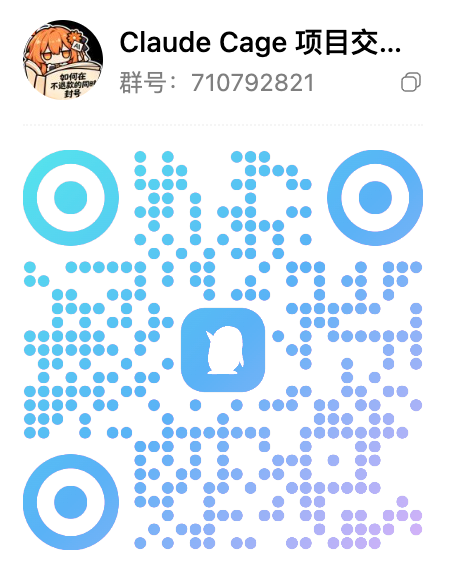
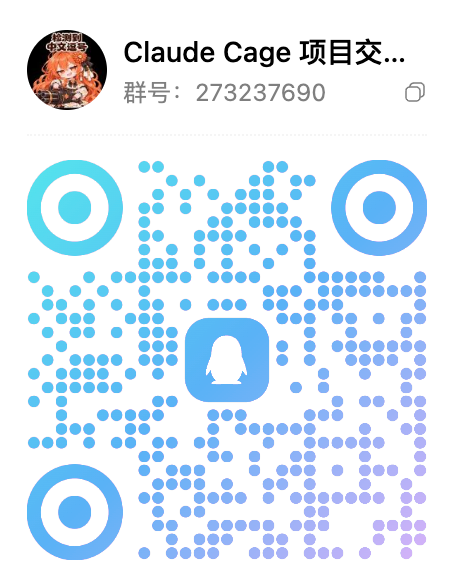
更新社区 QQ 群信息

diff --git a/www/src/i18n/cage.ts b/www/src/i18n/cage.ts
@@ -65,7 +65,7 @@ function readCopy(language: typeof languages[number]) {
     downloadTitle: installation.title, downloadText: installParagraphs[1],
     downloadNote: installParagraphs[0], updateNote: installParagraphs.at(-1) || '',
     communityTitle: contribution.title, communityText: paragraphs(contribution.body.replace(/<p\b[^>]*>[\s\S]*?<\/p>/g, '')).at(-1) || '',
-    group: isChinese ? 'QQ 群 · 710792821' : 'QQ group · 710792821',
+    group: isChinese ? 'QQ 群 · 273237690' : 'QQ group · 273237690',
     wechat: isChinese ? '微信' : 'WeChat', docsTitle: contribution.title, docs,
     licenseTitle: license.title, licenseText: paragraphs(license.body).slice(0,-1).join('\n\n'),
     independent: paragraphs(license.body).at(-1) || '',

diff --git a/README.my.md b/README.my.md
@@ -118,8 +118,8 @@ macOS နှင့် လက်မှတ်ထိုးထားသော Window
 ပရောဂျက်က အရှိန်အဟုန်နဲ့ တိုးတက်နေတယ်။ တုံ့ပြန်ချက်မျှဝေရန် ကွန်မြူနတီအဖွဲ့သို့ ဝင်ရောက်ပါ။ ရပ်ရွာထိန်းသိမ်းသူ များကို ကြိုဆိုပါတယ်။
 
 <p align="center">
-  <a href="assets/community-qq.png"><img src="assets/community-qq.png" alt="QQ group · 710792821" width="240" /></a>
-  <br />QQ group · 710792821
+  <a href="assets/community-qq.png"><img src="assets/community-qq.png" alt="QQ group · 273237690" width="240" /></a>
+  <br />QQ group · 273237690
 </p>
 
 <p align="center">

diff --git a/README.ru.md b/README.ru.md
@@ -118,8 +118,8 @@ macOS и подписанные версии Windows обновляются че
 Проект быстро развивается. Присоединяйтесь к группе сообщества, чтобы поделиться отзывами; сопровождающие сообщества приветствуются.
 
 <p align="center">
-  <a href="assets/community-qq.png"><img src="assets/community-qq.png" alt="QQ group · 710792821" width="240" /></a>
-  <br />QQ group · 710792821
+  <a href="assets/community-qq.png"><img src="assets/community-qq.png" alt="QQ group · 273237690" width="240" /></a>
+  <br />QQ group · 273237690
 </p>
 
 <p align="center">

diff --git a/README.be.md b/README.be.md
@@ -118,8 +118,8 @@ macOS і падпісаныя версіі Windows абнаўляюцца пра
 Праект імкліва развіваецца. Далучайцеся да групы супольнасці, каб падзяліцца водгукамі; вітаюцца супрацоўнікі супольнасці.
 
 <p align="center">
-  <a href="assets/community-qq.png"><img src="assets/community-qq.png" alt="QQ group · 710792821" width="240" /></a>
-  <br />QQ group · 710792821
+  <a href="assets/community-qq.png"><img src="assets/community-qq.png" alt="QQ group · 273237690" width="240" /></a>
+  <br />QQ group · 273237690
 </p>
 
 <p align="center">

diff --git a/README.fa.md b/README.fa.md
@@ -118,8 +118,8 @@ macOS و نسخههای امضاشدهٔ Windows از پراکسی انتخا
 این پروژه به سرعت در حال پیشرفت است. برای به اشتراک گذاشتن بازخورد به گروه جامعه بپیوندید. از نگهبانان جامعه استقبال می شود.
 
 <p align="center">
-  <a href="assets/community-qq.png"><img src="assets/community-qq.png" alt="QQ group · 710792821" width="240" /></a>
-  <br />QQ group · 710792821
+  <a href="assets/community-qq.png"><img src="assets/community-qq.png" alt="QQ group · 273237690" width="240" /></a>
+  <br />QQ group · 273237690
 </p>
 
 <p align="center">

diff --git a/README.prs.md b/README.prs.md
@@ -118,8 +118,8 @@ macOS و نسخههای امضاشدهٔ Windows از پراکسی انتخا
 این پروژه به سرعت در حال پیشرفت است. برای به اشتراک گذاشتن بازخورد به گروه جامعه بپیوندید. از نگهبانان جامعه استقبال می شود.
 
 <p align="center">
-  <a href="assets/community-qq.png"><img src="assets/community-qq.png" alt="QQ group · 710792821" width="240" /></a>
-  <br />QQ group · 710792821
+  <a href="assets/community-qq.png"><img src="assets/community-qq.png" alt="QQ group · 273237690" width="240" /></a>
+  <br />QQ group · 273237690
 </p>
 
 <p align="center">

diff --git a/README.ps.md b/README.ps.md
@@ -118,8 +118,8 @@ macOS او لاسلیک شوې Windows نسخې د ټاکلي پراکسي له 
 پروژه په چټکۍ سره وده کوي. د نظر شریکولو لپاره د ټولنې ګروپ کې ګډون وکړئ؛ د ټولنې ساتونکي ښه راغلاست.
 
 <p align="center">
-  <a href="assets/community-qq.png"><img src="assets/community-qq.png" alt="QQ group · 710792821" width="240" /></a>
-  <br />QQ group · 710792821
+  <a href="assets/community-qq.png"><img src="assets/community-qq.png" alt="QQ group · 273237690" width="240" /></a>
+  <br />QQ group · 273237690
 </p>
 
 <p align="center">

diff --git a/README.es.md b/README.es.md
@@ -118,8 +118,8 @@ Para consultar el índice completo, consulte [Índice de documentación](docs/RE
 El proyecto está evolucionando rápidamente. Únase al grupo comunitario para compartir comentarios; Los mantenedores de la comunidad son bienvenidos.
 
 <p align="center">
-  <a href="assets/community-qq.png"><img src="assets/community-qq.png" alt="QQ group · 710792821" width="240" /></a>
-  <br />QQ group · 710792821
+  <a href="assets/community-qq.png"><img src="assets/community-qq.png" alt="QQ group · 273237690" width="240" /></a>
+  <br />QQ group · 273237690
 </p>
 
 <p align="center">

diff --git a/README.so.md b/README.so.md
@@ -118,8 +118,8 @@ Si aad u hesho tusmada buuxda, eeg [Tusmada dhokumentiyada](docs/README.md).
 Mashruucu si xawli ah ayuu u socdaa. Ku biir kooxda bulshada si aad ula wadaagto jawaab celinta; ilaaliyayaasha bulshada waa la soo dhawaynayaa.
 
 <p align="center">
-  <a href="assets/community-qq.png"><img src="assets/community-qq.png" alt="QQ group · 710792821" width="240" /></a>
-  <br />QQ group · 710792821
+  <a href="assets/community-qq.png"><img src="assets/community-qq.png" alt="QQ group · 273237690" width="240" /></a>
+  <br />QQ group · 273237690
 </p>
 
 <p align="center">
